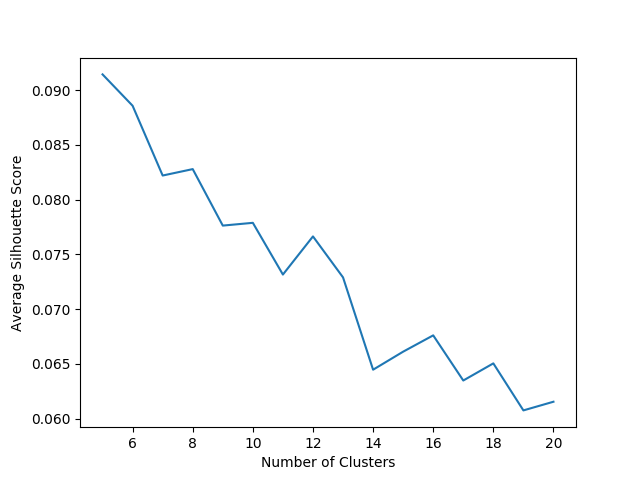
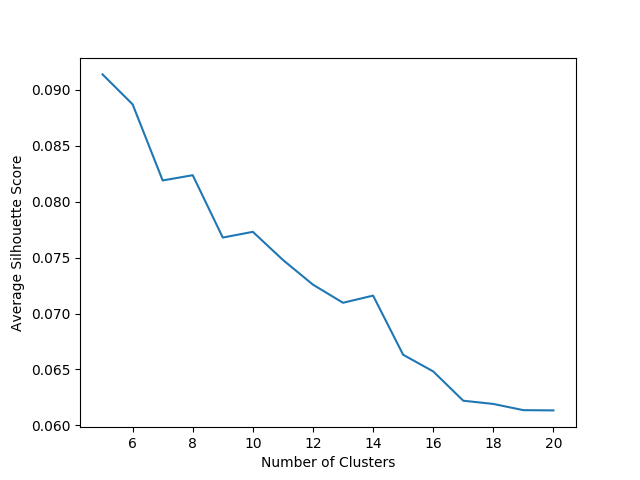
updated clustering and visualization, predict_model, and writing

diff --git a/reports/thesis/chapters/results.tex b/reports/thesis/chapters/results.tex
@@ -61,8 +61,9 @@ b_i = \min_{c' \neq c} \frac{1}{N_{c'}} \sum_{x_j \in c'} \lVert x_i - x_j
 $$
 Therefore, a silhouette score close to one indicates that the point is
 well-clustered, whereas a score close to zero indicates that a point is near the
-border between clusters. The average silhouette scores for various values of $k$ are
-shown in figure~\ref{fig:sils}.
+border between clusters. Thus, a good clustering will have a higher average
+silhouette score than a worse clustering. The average silhouette scores for various
+values of $k$ are shown in figure~\ref{fig:sils}.
 
 \begin{figure}
     \centering
@@ -71,31 +72,79 @@ shown in figure~\ref{fig:sils}.
     \label{fig:sils}
 \end{figure}
 
-From this figure, we determine that the optimal number of clusters is $k=8$.  After
-re-applying the $k$-means algorithm with $k=8$, we arrive at cluster means as shown
-in figure~\ref{tab:clus_means}. Note that the means shown are the means of the data
-that is after standardization by year but prior to inflating the variance of the
-defense and rebounding features.
+From this figure, $k=8$ was chosen to be the best choice for the number of clusters.
+This is because there is a relatively large dropoff after $k=8$, whereas there
+is actually an increase in average silhouette scores from $k=7$ to $k=8$; moreover,
+while there are greater average silhouette scores for lower values of $k$, these
+values are so low that the clusters would not be as interesting. For example, if
+$k=5$ was chosen, then the clusters would probably have a high correlation with
+the five traditional positions in basketball and thus the clustering would provide
+little insight.
+
+After re-applying the $k$-means algorithm with $k=8$, we arrive at cluster means as
+shown in figure~\ref{tab:clus_means}. Note that the means shown are the means of the
+data that is after standardization by year but prior to inflating the variance of
+the defense and rebounding features.
 
 \begin{table}
     \centering
     \noindent\makebox[\textwidth]{%
-    \begin{tabular}{cccc}
-        pass
-    \end{tabular}
+\begin{tabular}{ccccccccc}
+\toprule
+    & \multicolumn{8}{c}{Cluster} \\
+Feature &     1 &     2 &     3 &     4 &     5 &     6 &     7 &     8 \\
+\midrule
+FGA per play                   & -0.28 & -0.65 &  0.38 &  0.22 &  0.59 &  0.53 & -0.29 & -1.03\\
+AST per teammate FGM           & -0.40 & -0.83 & -0.34 &  0.98 & -0.36 &  1.09 & -0.50 & -0.82 \\
+FT \%                          &  0.36 & -0.67 &  0.12 &  0.20 & -0.04 &  0.62 & -0.37 & -1.42 \\
+FTA per FGA                    & -0.76 &  0.55 & -0.14 & -0.03 &  0.19 & -0.23 &  0.10 &  1.47\\
+PF drawn per play              & -0.89 &  0.12 &  0.03 &  0.21 &  0.66 &  0.11 & -0.08 &  0.55\\
+Lost balls per play            & -0.77 & -0.03 & -0.00 &  0.36 &  0.49 &  0.40 & -0.21 & -0.08\\
+Bad passes per play            & -0.39 & -0.79 & -0.29 &  0.96 & -0.32 &  0.88 & -0.33 & -0.71\\
+Travels per play               & -0.41 &  0.31 &  0.13 & -0.13 &  0.52 & -0.16 &  0.24 &  0.12 \\
+Offensive fouls per play       & -0.66 &  1.06 &  0.01 & -0.24 &  0.35 & -0.43 &  0.29 &  0.85\\
+Percent of 2-pt FGM assisted   &  0.32 &  0.79 &  0.31 & -0.86 &  0.56 & -1.12 &  0.67 &  0.56\\
+Percent of 3-pt FGM assisted   &  0.65 & -1.42 &  0.59 &  0.27 & -0.40 &  0.21 &  0.33 & -1.56\\
+Percent of FGA, 2-pt $\leq$ 4 ft & -0.86 &  0.89 & -0.23 & -0.19 &  0.35 & -0.52 &  0.29 &  1.95 \\
+Percent of FGA, 2-pt 5-8 ft    & -0.74 &  1.05 & -0.08 & -0.34 &  0.91 & -0.30 & -0.02 &  0.86\\
+Percent of FGA, 2-pt 9-16 ft   & -0.54 &  0.53 &  0.08 & -0.15 &  0.95 &  0.14 &  0.00 & -0.56\\
+Percent of FGA, 2-pt 17+ ft    &  0.08 & -0.40 &  0.20 &  0.09 &  0.07 &  0.34 &  0.29 & -1.29 \\
+Percent of FGA, 3-pt $\leq$ 23 ft &  1.33 & -0.82 &  0.02 &  0.04 & -0.76 & -0.06 & -0.23 & -0.86 \\
+Percent of FGA, 3-pt 24-26 ft  &  1.06 & -1.09 &  0.13 &  0.30 & -0.95 &  0.37 & -0.41 & -1.13 \\
+Percent of FGA, 3-pt 27-30 ft  &  0.54 & -0.82 & -0.02 &  0.30 & -0.72 &  0.56 & -0.35 & -0.82 \\
+FG\%, 2-pt $\leq$ 4 ft         & -0.20 &  0.30 &  0.20 & -0.20 &  0.47 & -0.38 &  0.14 &  0.31 \\
+FG\%, 2-pt 5-8 ft              & -0.18 &  0.18 &  0.15 & -0.12 &  0.37 &  0.10 & -0.23 & -0.16\\
+FG\%, 2-pt 9-16 ft             &  0.04 & -0.04 &  0.02 & -0.06 &  0.25 &  0.22 & -0.16 & -0.53\\
+FG\%, 2-pt 17+ ft              &  0.13 & -0.10 &  0.14 &  0.07 &  0.21 &  0.24 & -0.02 & -1.21 \\
+FG\%, 3-pt $\leq$ 23 ft        &  0.51 & -1.08 &  0.32 &  0.31 & -0.69 &  0.47 & -0.06 & -1.16 \\
+FG\%, 3-pt 24-26 ft            &  0.53 & -1.32 &  0.33 &  0.33 & -0.48 &  0.50 & -0.05 & -1.25 \\
+FG\%, 3-pt 27-30 ft            &  0.39 & -0.76 &  0.25 &  0.26 & -0.40 &  0.35 & -0.22 & -0.90 \\
+Blocks per opponent 2-pt FGA   & -0.51 &  1.26 & -0.13 & -0.52 &  0.68 & -0.75 &  0.29 &  1.37 \\
+Steals per play                & -0.24 & -0.79 & -0.46 &  1.48 & -0.51 & -0.02 &  0.31 & -0.29 \\
+Personal fouls per play        & -0.34 &  1.39 & -0.28 & -0.37 & -0.03 & -0.70 &  0.61 &  1.03 \\
+Opponent TO per play           & -0.07 & -0.30 & -0.46 &  0.81 & -0.46 & -0.48 &  0.94 &  0.18\\
+Offensive rebounding rate      & -0.75 &  1.11 & -0.08 & -0.64 &  1.08 & -0.88 &  0.49 &  1.84 \\
+Defensive rebounding rate      & -0.65 &  0.47 &  0.24 & -0.58 &  1.59 & -0.95 &  0.42 &  1.48 \\
+Defensive RAPM                 &  0.03 & -0.10 & -0.43 &  0.51 & -0.01 & -0.63 &  0.60 &  0.50 \\
+Offensive RAPM                 & -0.03 & -0.48 &  0.12 &  0.17 &  0.18 &  0.18 & -0.21 & -0.16 \\
+\bottomrule
+\end{tabular}
     }
-    \caption{TODO}
+    \caption{Player profile for the average member of each cluster.}
     \label{tab:clus_means}
 \end{table}
 
-\begin{figure}
-    \centering
-    \includegraphics[width=\textwidth]{figures/clus_means}
-    \caption{Average silhouette scores for various values of $k$.}
-    \label{fig:sils}
-\end{figure}
+TODO: finish this
 
-TODO: interpret clustering, show means, exemplary players
+Many of these clusters intuitively describe player types in the NBA. For example,
+cluster 1 seems to represent three-point specialists, or players who don't shoot
+often but shoot most of their shots from three-point range, and are successful from
+that range; these players often make their shots 
+
+Cluster 1: 3-pt specialist
+Cluster 2: low-usage big man with poor offense
+Cluster 3: average all-around wing
+Cluster 4: 
 
 \section{Cross-Validation Results}
 
@@ -128,20 +177,37 @@ table~\ref{tab:cv_results}.
     \label{tab:cv_results}
 \end{table}
 
-TODO: discuss
+Somewhat surprisingly, the regression model with the best performance in
+cross-validation is the simple linear regression model. Moreover, less surprisingly,
+principal components analysis beat out the nonlinear dimensionality reduction
+techniques, as models trained using PCA outperformed Isomap and LLE regardless of
+the regression model used. As noted in section~\ref{sec:regress}, the linear
+regression model does encapsulate interactions between players, to an extent; this
+is because the players are sorted in order of total RAPM, so unlike the baseline
+RAPM model discussed in the introduction and in section~\ref{sec:baseline},
+substituting player 1 for player 2 is not as simple as adding one player 1's ratings
+and subtracting player 2's ratings because the substitution can result in a
+shuffling of the order of the players in the regression, which in turn means that
+a player's feature values may be matched with different coefficients if his position
+in the sorted lineup changes as a result of the substitution. Therefore, while it is
+not a nonlinear model, this linear regression model still functions differently than
+the adjusted plus/minus model in that the effect of a substitution is not
+necessarily the same regardless of the other players on the court as it is in the
+APM model.
 
 \section{Comparison to Baseline Model}
+\label{sec:baseline}
 
 The motivation for this model is to incorporate play styles in order to improve upon
 the regularized adjusted plus/minus model when predicting the relative performance
-of two lineups. However, the RAPM framework proper is a method for evaluating
-individual players and does not produce predictions for two arbitrary lineups;
-therefore, an extension of the RAPM model is necessary in order to adapt it to
-predict the outcome of a possession.  If one is to accept the RAPM model's
-assumption that the outcome of a possession can be linearly allocated to the ten
-players on the court as in~\eqref{eq:apm}, then a straightforward adaptation of the
-RAPM model is to model the points per possession of one lineup against another as a
-linear combination of the players' RAPM ratings with a home court adjustment:
+of two lineups. However, the (R)APM framework is used as a method for evaluating
+individual players and is not used to produce predictions for two arbitrary lineups;
+therefore, an extension of the model is necessary in order to adapt it to
+predict the outcome of a possession. If one is to accept the RAPM model's assumption
+that the point outcome of a possession can be linearly allocated to the ten players
+on the court as in~\eqref{eq:apm}, then it naturally follows from the model to model
+the points per possession of one lineup against another as a linear combination of
+the players' RAPM ratings with a home court adjustment:
 \begin{equation} \label{eqn:baseline}
     y_i = \sum_{p \in OP_i} x_{\text{off}, p} - \sum_{p \in DP_i} x_{\text{def}, p}
     + \beta_{\text{HCA}}x_{\text{HmOff},i} + \beta_{\text{const}} + \epsilon_i
@@ -153,9 +219,9 @@ DRAPM ratings respectively, $x_{\text{HmOff}, i}$ is an indicator for whether th
 home team is on offense for possession $i$, and $\epsilon_i$ is a
 normally-distributed error term with zero mean. Then, the coefficients
 $\beta_{\text{HCA}}$ and $\beta_{\text{const}}$ are optimized via ordinary least
-squares. Note that the ORAPM and DRAPM values are not given coefficients; this is
-because the RAPM model inherently assumes that these ratings combine linearly with
-equal weights for each player. This assumption is made by the APM model
+squares. Note that the ORAPM and DRAPM predictors are not given coefficients; this
+is because the RAPM model inherently assumes that these ratings combine linearly
+with equal weights for each player. This assumption is made by the APM model
 in~\eqref{eq:apm} wherein points on a possession is modeled as equal to the sum of
 the offensive players' coefficients minus the sum of the defensive players'
 coefficients, using an indicator to control for home court advantage and an
@@ -165,34 +231,78 @@ use it to predict the outcome of a possession. Therefore, this model for predict
 points per possession follows logically from the RAPM framework for player
 evaluation.
 
-TODO: show coefficients, compare accuracy to full model
+Both the baseline RAPM model and the full model including the PCA-transformed player
+profiles were trained on second-half possessions from the 2006-07 season through the
+2013-14 season as described in chapter~\ref{ch:methods}. A comparison of these
+models on a variety of metrics measuring performance on out-of-sample data from the
+2014-15 and 2015-16 seasons is given in table~\ref{tab:compare}. Clearly, the model
+including the transformed player profile features as predictors outperformed the
+baseline model. Although the differences are small, this is largely due to the level
+at which the regression is being done; that is, the upper bound on the performance
+of a model that uses only play-by-play data to predict point outcomes on each
+possession is quite low due to the noise and variability in possession outcomes. For
+instance, both models tested here will always predict the same point outcome given
+offensive and defensive lineups; however, if these two lineups play for several
+possessions, they are likely to have several different point outcomes over the
+course of these possessions. This error is unavoidable given the model
+specifications of the RAPM model and of the player profile model. Therefore, the
+model is able to improve prediction accuracy on out-of-sample data compared to the
+RAPM model.
+
+\begin{table}
+    \centering
+    \noindent\makebox[\textwidth]{%
+    \begin{tabular}{ccc}
+        \toprule
+        Metric & RAPM Model & Player Profile Model \\ \midrule
+        $R^2$ & 0.0001632 & 0.001962 \\
+        Root Mean Squared Error & 1.29454 & 1.29440 \\
+        Median Absolute Error & 1.03275 & 1.03038 \\ \bottomrule
+    \end{tabular}
+    }
+    \caption{Comparing the out-of-sample performance of the regression on player
+    profile data to the baseline RAPM model.}
+    \label{tab:compare}
+\end{table}
 
 \section{Player Ratings}
 
-Using the full model as specified in section~\ref{sec:mod_sel}, a given player $p$
-can be evaluated by computing the expected point differential per possession that a
-team of $p$ and four replacement players would achieve against a team of five
-replacement players; this assigns a ``points above replacement'' rating based on how
-much a player contributes to an otherwise replacement-level team. Expected point
-differential per possession is computed by using the model to predict the expected
-points per possession when the player's lineup is on defense and subtracting this
-value from the predicted expected points per possession when the player's lineup is
-on offense; for simplicity's sake, the offense is always assumed to be the home
-team, so that the home court advantage cancels out during subtraction. Using the
-model trained on data from the 2006-07 NBA season through the 2013-14 NBA season,
-ratings were calculated for all (TODO: number?) players who played at least 820
-minutes in the 2015-16 season, which corresponds to an average of 10 minutes per
-game over the 82-game season; the best and worst of these ratings are shown in
-table~\ref{TODO}. Recall that in computing these ratings, we use player profiles
-built from data from both the prior season and the first half of the season in
-question; therefore, the 2015-16 ratings are based partially on the 2015-16 season
-itself and partially on the prior 2014-15 season. Moreover, remember that the
-motivation of this model is to evaluate how the play styles of the members of a
-lineup interact with each other, and having a low rating in table~\ref{TODO} simply
-indicates that the player would not contribute well to a team of replacement-level
-players against a team of replacement-level players. However, it is still possible
-that the same player would be an effective contributor to different lineups or
-against different lineups.
+Using the player profile model, a given player $p$ can be evaluated by computing the
+expected point differential per possession that a team of $p$ and four replacement
+players would achieve against a team of five replacement players; this assigns a
+``points above replacement'' rating based on how much a player contributes to an
+otherwise replacement-level team. Expected point differential per possession is
+computed by using the model to predict the points per possession when the player's
+lineup is on defense and subtracting this value from the predicted points per
+possession when the player's lineup is on offense; for simplicity's sake, the
+offense is always assumed to be the home team, so that the home court advantage
+cancels out during subtraction. Using the model trained on data from the 2006-07 NBA
+season through the 2013-14 NBA season, ratings were calculated for all (TODO:
+number?) players who played at least 820 minutes in the 2015-16 season, which
+corresponds to an average of 10 minutes per game over the 82-game season; the best
+and worst of these ratings are shown in table~\ref{tab:player_ratings}.
+
+\begin{table}
+    \centering
+    \noindent\makebox[\textwidth]{%
+    \begin{tabular}{ccc}
+        TODO
+    \end{tabular}
+    }
+    \caption{TODO}
+    \label{tab:player_ratings}
+\end{table}
+
+There are a few things to note when interpreting these ratings. First, recall that
+player profiles are built from data from both the prior season and the first half of
+the season in question; therefore, the 2015-16 ratings are based partially on the
+2015-16 season itself and partially on the prior 2014-15 season.  Moreover, remember
+that the motivation of the player profiles model is to evaluate how the play styles
+of the members of a lineup interact with each other; having a low rating in
+table~\ref{tab:player_ratings} simply indicates that the player would not contribute
+well to a team of replacement-level players against a team of replacement-level
+players.  However, it is still possible that the same player would be an effective
+contributor to different lineups or against different lineups.
 
 TODO: interpretation
 

diff --git a/src/models/predict_model.py b/src/models/predict_model.py
@@ -181,7 +181,7 @@ def process_trade(team1, team2, starters1, starters2, trade):
 @decorators.memoize
 def year_off_def_matrix(year, trade=None):
     season = nba.Season(year)
-    team_ids = season.get_team_ids()
+    team_ids = sorted(season.get_team_ids())
     n = len(team_ids)
     team_idxs = dict(zip(team_ids, range(n)))
     grid = np.zeros((n, n))
@@ -207,7 +207,7 @@ def year_off_def_matrix(year, trade=None):
 def year_diff_matrix(year, trade=None):
     grid_df = year_off_def_matrix(year, trade=trade)
     season = nba.Season(year)
-    team_ids = season.get_team_ids()
+    team_ids = sorted(season.get_team_ids())
     n = len(team_ids)
     team_idxs = dict(zip(team_ids, range(n)))
 
@@ -240,7 +240,7 @@ def evaluate_trade(team1, team2, player1, player2, year):
 
     # compare matrices
     season = nba.Season(year)
-    team_ids = season.get_team_ids()
+    team_ids = sorted(season.get_team_ids())
     n = len(team_ids)
 
     ppp_advs = []
@@ -263,7 +263,7 @@ def evaluate_trade(team1, team2, player1, player2, year):
 
 
 @decorators.memoize
-def evaluate_trades_two_teams(teams):
+def evaluate_trades_two_teams(teams, year=None):
     print 'evaluating trades between {} and {}'.format(*teams)
     starters = [get_starters(team, year) for team in teams]
     trade_results = []
@@ -283,11 +283,11 @@ def evaluate_trades_two_teams(teams):
 
 def evaluate_all_trades(year):
     season = nba.Season(year)
-    team_ids = season.get_team_ids()
+    team_ids = sorted(season.get_team_ids())
     trade_results = []
     team_combs = db.from_sequence(itertools.combinations(team_ids, 2))
     with diagnostics.ProgressBar():
         dfs = team_combs.map(
-            evaluate_trades_two_teams
+            evaluate_trades_two_teams, year=year
         ).compute(get=dask.multiprocessing.get)
     return pd.concat(dfs)

diff --git a/src/visualization/visualize.py b/src/visualization/visualize.py
@@ -74,7 +74,7 @@ def produce_results_for_year(year):
     season = nba.Season(year)
     clusters = pd.read_csv(os.path.join(
         PROJ_DIR, 'data', 'results', 'clusters.csv'
-    ), index_col=[0,1])['0'].xs(year, level=1)
+    ), index_col=[0,1], header=None)[2].xs(year, level=1)
 
     logger.info('evaluating players')
     players_df = season.player_stats_totals().query(
@@ -144,16 +144,6 @@ def produce_results_for_year(year):
     plot_matrix(point_diff_matrix, 'point_diff_matrix.png')
     write_output(point_diff_matrix, 'point_diff_matrix.csv')
 
-    # TODO: make this faster?
-    logger.info('evaluating starting decisions')
-    team_ids = season.get_team_ids()
-    sched_eval_df = pd.concat([
-        predict_model.evaluate_team_schedule(team_id, year)
-        for team_id in team_ids
-    ])
-    write_output(sched_eval_df, 'sched_evals.csv')
-
-    # TODO: make this faster?
     logger.info('evaluating all trades')
     trade_evals = predict_model.evaluate_all_trades(year)
     write_output(trade_evals, 'trade_evals.csv')

diff --git a/reports/thesis/chapters/introduction.tex b/reports/thesis/chapters/introduction.tex
@@ -266,8 +266,6 @@ my approach is that it does not involve per-player estimands; rather, players ar
 represented quantitatively by statistics summarizing their talents and play styles.
 Indeed, many summary statistics are used in order to fully capture a player's
 tendencies and play style. Moreover, whereas the other models assume additive
-relationships between player ratings, my approach leverages nonlinear and
-nonparametric techniques to directly model the expected point differential per
-possession on the team level. These models, such as gradient-boosting and random
-forests, have the advantage of greater expressiveness but the disadvantage of worse
-interpretability and inspectability.
+relationships between player ratings, my approach leverages interactions
+between player play styles to directly model the expected point differential per
+possession on the team level.

diff --git a/src/visualization/clustering.py b/src/visualization/clustering.py
@@ -51,7 +51,7 @@ if __name__ == '__main__':
     km = cluster.KMeans(n_clusters=8, n_init=20, max_iter=500)
     clusters = km.fit_predict(profs_kmeans)
     cluster_df = profiles_scaled.assign(cluster=clusters)
-    visualize.write_output(cluster_df['cluster'], 'clusters.csv')
+    # visualize.write_output(cluster_df['cluster'], 'clusters.csv')
 
     means = pd.DataFrame(
         profiles_scaled.groupby(clusters).mean(),
@@ -62,4 +62,4 @@ if __name__ == '__main__':
     means.columns.name = 'Feature'
     means = means.T.applymap(lambda x: round(x, 2))
 
-    visualize.write_table(means, 'cluster_means.txt', column_format='c'*8)
+    # visualize.write_table(means, 'cluster_means.txt', column_format='c'*8)

diff --git a/reports/thesis/chapters/methods.tex b/reports/thesis/chapters/methods.tex
@@ -301,7 +301,8 @@ TODO: explain that best one is chosen from the data
 \section{Predicting Point Differential Based on Lineup Composition}
 \label{sec:regress}
 
-TODO: specify model formally, make sure it's updated
+TODO: specify model formally, make sure it's updated; make sure to mention linear
+regression would still interpret interactions to an extent
 
 Once player profiles were passed through a dimensionality reduction algorithm, they
 were used to construct the design matrix for the regression predicting point
